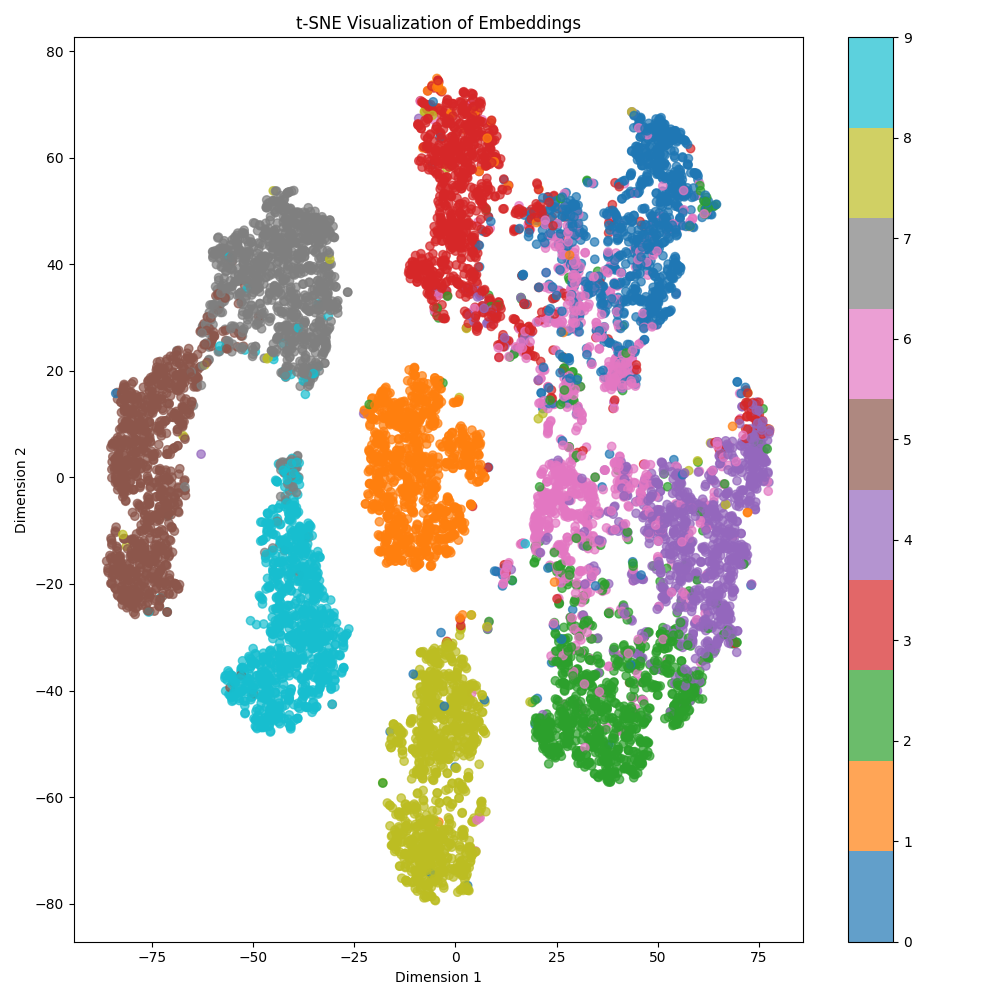
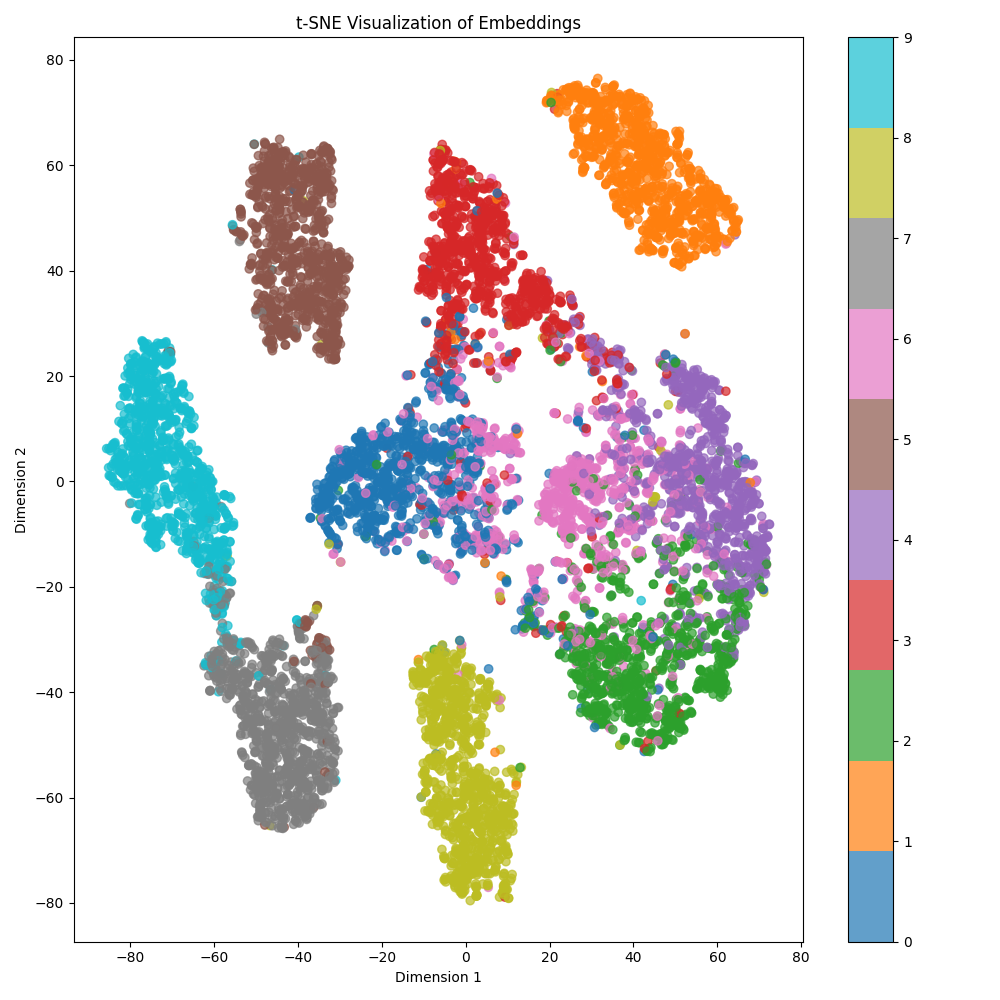
Ready for delivery

diff --git a/models/mixtureofexperts/expert_specialization/expert_semantic_analysis.py b/models/mixtureofexperts/expert_specialization/expert_semantic_analysis.py
@@ -1,58 +1,43 @@
 import numpy as np
 import matplotlib.pyplot as plt
-import torch
+import seaborn as sns
 
-# Functions to analyze expert specialization and routing patterns
-def analyze_specialization(routing_weights, labels, class_names):
+def plot_expert_semantics(routing_weights, labels, class_names):
+
     num_experts = routing_weights.shape[1]
+    num_classes = len(class_names)
+
+    matrix = np.zeros((num_experts, num_classes))
 
     for expert in range(num_experts):
+
         expert_scores = routing_weights[:, expert]
 
-        topindices = np.argsort(expert_scores)[::-1]
-        toplabels = labels[topindices[:200]]
+        top_indices = np.argsort(expert_scores)[::-1][:500]
 
-        unique, counts = np.unique(toplabels, return_counts=True)
+        top_labels = labels[top_indices]
 
-        print(f"\nExpert {expert}")
+        for cls in range(num_classes):
+            matrix[expert, cls] = np.mean(top_labels == cls)
 
-        sorted_counts = sorted(
-            zip(unique, counts),
-            key=lambda x: x[1],
-            reverse=True
-        )
+    plt.figure(figsize=(12, 4))
 
-        for id, count in sorted_counts[:5]:
-            percentage = count / len(toplabels) * 100
-            print(f"{class_names[id]:15s} {percentage:.2f}%")
+    sns.heatmap(
+        matrix,
+        annot=True,
+        cmap="Blues",
+        xticklabels=class_names,
+        yticklabels=[f"Expert {i}" for i in range(num_experts)]
+    )
 
-# Plotting the evolution of routing weights for each expert over training
-def plot_routing_evolution(trainer):
-    history = torch.stack(trainer.routing_history).numpy()
+    plt.xlabel("Class", fontsize=16)
+    plt.ylabel("Expert", fontsize=16)
 
-    plt.figure(figsize=(10, 6))
+    plt.title(
+        "Semantic Specialization of Experts",
+        fontsize=20,
+        pad=20
+    )
 
-    for expert_id in range(history.shape[1]):
-        plt.plot(
-            history[:, expert_id],
-            label=f"Expert {expert_id}"
-        )
-
-    plt.xlabel("Training Step")
-    plt.ylabel("Average Routing Weight")
-    plt.title("Expert Routing Evolution")
-    plt.legend()
     plt.tight_layout()
-    plt.savefig("routing_evolution.png",dpi=300)
-    plt.close()
-
-# Plotting the specialization score over time
-def plot_specialization_score(trainer):
-    plt.figure(figsize=(8, 5))
-    plt.plot(trainer.specialization_history, marker='o')
-    plt.xlabel("Training Step")
-    plt.ylabel("Specialization Score")
-    plt.title("Emergent Expert Specialization")
-    plt.tight_layout()
-    plt.savefig("specialization_score.png",dpi=300)
-    plt.close()
+    plt.show()

diff --git a/plot.py b/plot.py
@@ -1,0 +1,52 @@
+import matplotlib.pyplot as plt
+import numpy as np
+
+# Fashion-MNIST classes
+classes = [
+    "T-shirt", "Trouser", "Pullover", "Dress", "Coat",
+    "Sandal", "Shirt", "Sneaker", "Bag", "Ankle Boot"
+]
+
+# Intra-class distances
+autoencoder = [0.9481, 0.8329, 0.9741, 0.9452, 0.9323,
+               0.7593, 0.9785, 0.8048, 1.0117, 0.8832]
+
+contrastive = [0.0200, 0.0102, 0.0213, 0.0161, 0.0178,
+               0.0109, 0.0219, 0.0087, 0.0210, 0.0137]
+
+clip = [0.3921, 0.3128, 0.3581, 0.3998, 0.3616,
+        0.4178, 0.3971, 0.3904, 0.4300, 0.3400]
+
+moe = [0.3223, 0.2025, 0.4165, 0.2762, 0.3517,
+       0.1615, 0.3927, 0.1358, 0.3197, 0.2037]
+
+x = np.arange(len(classes))
+width = 0.2
+
+# Plot
+plt.figure(figsize=(18, 8))
+
+plt.bar(x - 1.5 * width, autoencoder, width, label='Autoencoder')
+plt.bar(x - 0.5 * width, contrastive, width, label='Contrastive')
+plt.bar(x + 0.5 * width, clip, width, label='CLIP')
+plt.bar(x + 1.5 * width, moe, width, label='MoE')
+
+# Labels and formatting
+plt.xticks(x, classes, rotation=20, fontsize=14)
+plt.yticks(fontsize=14)
+
+plt.xlabel("Fashion-MNIST Class", fontsize=18)
+plt.ylabel("Intra-class Distance", fontsize=18)
+
+plt.title(
+    "Per-class Intra-class Distances Across Representation Learning Models",
+    fontsize=22,
+    pad=20
+)
+
+plt.legend(fontsize=14)
+
+plt.grid(axis='y')
+
+plt.tight_layout()
+plt.savefig("intra_class_distances.png", dpi=300)

diff --git a/main.py b/main.py
@@ -22,9 +22,10 @@ from models.contrastive import ContrastiveModel
 from models.pretrained import PretrainedCLIPModel
 from models.autoencoder import AutoencoderModel
 
+from models.mixtureofexperts.expert_specialization.expert_semantic_analysis import plot_expert_semantics
 device = torch.device('cuda' if torch.cuda.is_available() else 'cpu')
 
-EPOCHS = 10
+EPOCHS = 5
 
 if __name__ == '__main__':
     dataset = FashionMNISTDataset(batch_size=64, size=32, split_fraction=0.5)
@@ -77,17 +78,18 @@ if __name__ == '__main__':
     expert_trainer = ExpertTrainerAndEvaluator(mixture_of_experts, device)
     test_loss, test_acc = expert_trainer.run_experiment(train_df, test_df, epochs=EPOCHS)
     
-    start_time = time.time()
+    #start_time = time.time()
     moe_embeddings, moe_labels, moe_images = benchmarker.extract_embeddings(mixture_of_experts, test_df, num_classes=NUM_CLASSES)
-    end_time = time.time()
-    visualizer.visualize(model_name='mixtureofexperts_c', embeddings=moe_embeddings, labels=moe_labels)
-    elapsed_time = end_time - start_time
-    print(f"Time to extract embeddings: {elapsed_time:.2f} seconds")
+    #end_time = time.time()
+    #visualizer.visualize(model_name='mixtureofexperts', embeddings=moe_embeddings, labels=moe_labels)
+    #elapsed_time = end_time - start_time
+    #print(f"Time to extract embeddings: {elapsed_time:.2f} seconds")
 
     moe_results = benchmarker.run_experiment_functions(embeddings=moe_embeddings, labels=moe_labels)
     print(f'MoE Results: {moe_results}')
 
-    
+    plot_expert_semantics(mixture_of_experts.gating_network.routing_weights.cpu().numpy(), moe_labels, class_names)
+
     '''# Contrastive
     contrastive_model = ContrastiveModel(in_channels=1, embedding_dim=64, projection_dim=32).to(device)
     contrastive_trainer = ContrastiveTrainerAndEvaluator(contrastive_model, temperature=0.2, device=device)

diff --git a/utils/dataset.py b/utils/dataset.py
@@ -39,11 +39,11 @@ class FashionMNISTDataset:
         test_dataset = TensorDataset(test_X, test_y)
 
         # Select fixed-size subsets
-        train_subset = Subset(train_dataset, list(range(20000)))
-        test_subset  = Subset(test_dataset,  list(range(10000)))
+        #train_subset = Subset(train_dataset, list(range(20000)))
+        #test_subset  = Subset(test_dataset,  list(range(10000)))
 
-        self.train_loader = DataLoader(train_subset, batch_size=self.batch_size, shuffle=True)
-        self.test_loader = DataLoader(test_subset, batch_size=self.batch_size, shuffle=False)
+        self.train_loader = DataLoader(train_dataset, batch_size=self.batch_size, shuffle=True)
+        self.test_loader = DataLoader(test_dataset, batch_size=self.batch_size, shuffle=False)
 
         return self.train_loader, self.test_loader
     

diff --git a/training_and_evaluate/train_expert.py b/training_and_evaluate/train_expert.py
@@ -85,7 +85,7 @@ class ExpertTrainerAndEvaluator:
                 ce_loss
                 #+ self.orthogonality_weight * orth_loss
                 #+ self.sharpness_weight * sharpness_loss
-                + self.consistency_weight * consistency_loss
+                #+ self.consistency_weight * consistency_loss
                 + self.entropy_weight * entropy_loss
                 + self.load_balance_weight * balance_loss
             )
@@ -98,7 +98,7 @@ class ExpertTrainerAndEvaluator:
             
             #total_orth_loss += orth_loss.item()
             #total_sharpness_loss += sharpness_loss.item()
-            total_consistency_loss += consistency_loss.item()
+            #total_consistency_loss += consistency_loss.item()
 
             total_entropy_loss += entropy_loss.item()
             total_load_balance_loss += balance_loss.item()
@@ -124,7 +124,7 @@ class ExpertTrainerAndEvaluator:
         print(f"Entropy Loss: {total_entropy_loss / len(train_loader):.4f}")
         #print(f"Orthogonality Loss: {total_orth_loss / len(train_loader):.4f}")
         #print(f"Sharpness Loss: {total_sharpness_loss / len(train_loader):.4f}")
-        print(f"Consistency Loss: {total_consistency_loss / len(train_loader):.4f}")
+        #print(f"Consistency Loss: {total_consistency_loss / len(train_loader):.4f}")
 
         return average_loss, accuracy
     